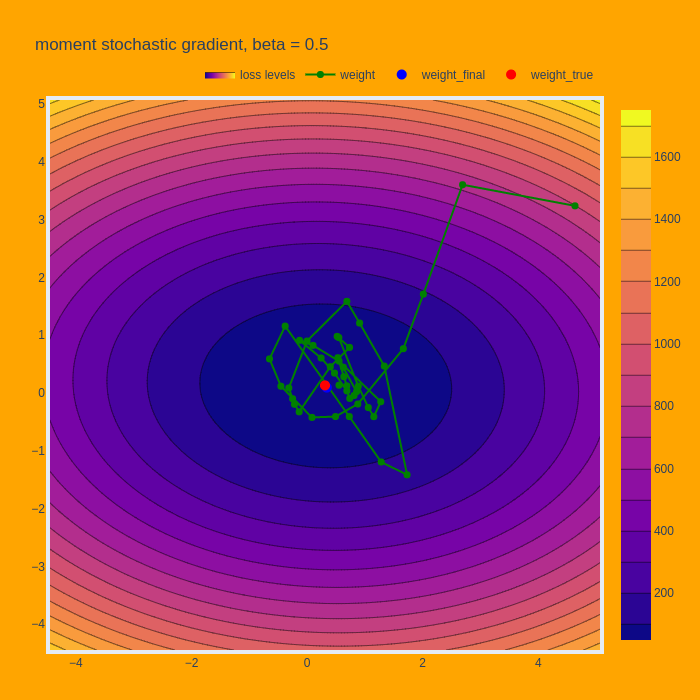
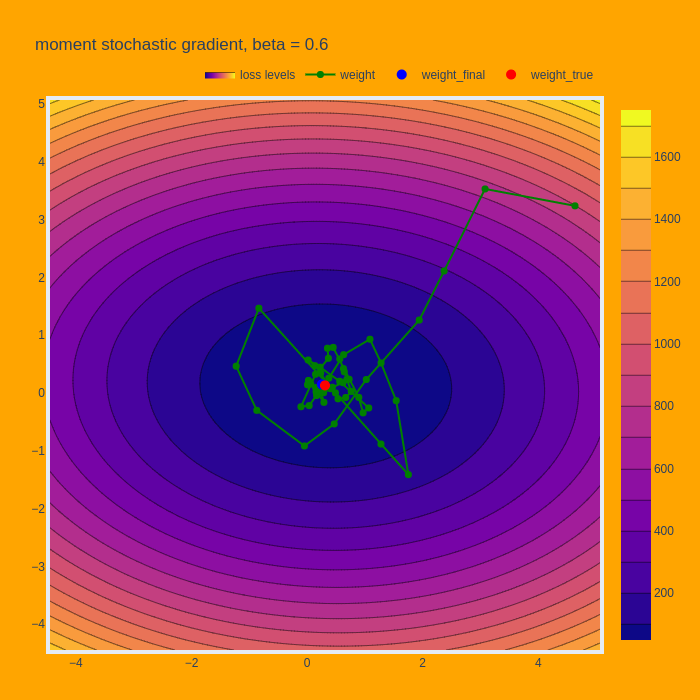
update

diff --git a/python_module/main.py b/python_module/main.py
@@ -166,8 +166,8 @@ if __name__ == '__main__':
 
     simple_gradient(X=XX, Y=YY, batch_size=len(XX), alpha=0.01, w_0=init_w, true_w=WW,
                     name="simple gradient, batch_size = all")
-    simple_gradient(X=XX, Y=YY, batch_size=16, alpha=0.01, w_0=init_w, true_w=WW,
-                    name="minibatch gradient, batch_size = 16")
+    simple_gradient(X=XX, Y=YY, batch_size=32, alpha=0.01, w_0=init_w, true_w=WW,
+                    name="minibatch gradient, batch_size = 32")
     simple_gradient(X=XX, Y=YY, batch_size=1, alpha=0.01, w_0=init_w, true_w=WW,
                     name="stochastic gradient, batch_size = 1")
 
@@ -176,21 +176,21 @@ if __name__ == '__main__':
 
     simple_gradient(X=XX_st, Y=YY, batch_size=len(XX), alpha=0.1, w_0=init_w, true_w=WW_st,
                     name="norm simple gradient, batch_size = all")
-    simple_gradient(X=XX_st, Y=YY, batch_size=16, alpha=0.1, w_0=init_w, true_w=WW_st,
-                    name="norm minibatch gradient, batch_size = 16")
+    simple_gradient(X=XX_st, Y=YY, batch_size=32, alpha=0.1, w_0=init_w, true_w=WW_st,
+                    name="norm minibatch gradient, batch_size = 32")
     simple_gradient(X=XX_st, Y=YY, batch_size=1, alpha=0.1, w_0=init_w, true_w=WW_st,
                     name="norm stochastic gradient, batch_size = 1")
 
     moment_gradient(X=XX, Y=YY, batch_size=1, alpha=0.01, w_0=init_w, true_w=WW,
-                    name="moment stochastic gradient, beta = 0.3", beta=0.3)
+                    name="moment stochastic gradient, beta = 0.2", beta=0.2)
     moment_gradient(X=XX, Y=YY, batch_size=1, alpha=0.01, w_0=init_w, true_w=WW,
-                    name="moment stochastic gradient, beta = 0.5", beta=0.5)
+                    name="moment stochastic gradient, beta = 0.6", beta=0.6)
     moment_gradient(X=XX, Y=YY, batch_size=1, alpha=0.01, w_0=init_w, true_w=WW,
                     name="moment stochastic gradient, beta = 0.8", beta=0.8)
 
     nesterov_gradient(X=XX, Y=YY, batch_size=1, alpha=0.01, w_0=init_w, true_w=WW,
-                      name="nesterov stochastic gradient, beta = 0.3", beta=0.3)
+                      name="nesterov stochastic gradient, beta = 0.2", beta=0.2)
     nesterov_gradient(X=XX, Y=YY, batch_size=1, alpha=0.01, w_0=init_w, true_w=WW,
-                      name="nesterov stochastic gradient, beta = 0.5", beta=0.5)
+                      name="nesterov stochastic gradient, beta = 0.6", beta=0.6)
     nesterov_gradient(X=XX, Y=YY, batch_size=1, alpha=0.01, w_0=init_w, true_w=WW,
                       name="nesterov stochastic gradient, beta = 0.8", beta=0.8)

diff --git a/README.md b/README.md
@@ -12,48 +12,3 @@
 ![image.png](https://github.com/grifguitar/metopt/blob/main/img/newplot9.png?raw=true)
 ![image.png](https://github.com/grifguitar/metopt/blob/main/img/newplot10.png?raw=true)
 ![image.png](https://github.com/grifguitar/metopt/blob/main/img/newplot11.png?raw=true)
-
-! simple gradient, batch_size = all:
-Total time: 0.23255299999999998 milliseconds Total iter: 8 iterations Average time per iteration: 0.029069124999999998
-milliseconds / iter
-
-! minibatch gradient, batch_size = 16:
-Total time: 0.452017 milliseconds Total iter: 8 iterations Average time per iteration: 0.056502125 milliseconds / iter
-
-! stochastic gradient, batch_size = 1:
-Total time: 2.7630559999999997 milliseconds Total iter: 65 iterations Average time per iteration: 0.042508553846153846
-milliseconds / iter
-
-! norm simple gradient, batch_size = all:
-Total time: 1.0764829999999999 milliseconds Total iter: 16 iterations Average time per iteration: 0.06728018749999999
-milliseconds / iter
-
-! norm minibatch gradient, batch_size = 16:
-Total time: 0.570375 milliseconds Total iter: 15 iterations Average time per iteration: 0.038024999999999996
-milliseconds / iter
-
-! norm stochastic gradient, batch_size = 1:
-Total time: 4.250802999999999 milliseconds Total iter: 93 iterations Average time per iteration: 0.04570755913978495
-milliseconds / iter
-
-! moment stochastic gradient, beta = 0.3:
-Total time: 0.77069 milliseconds Total iter: 16 iterations Average time per iteration: 0.048168125 milliseconds / iter
-
-! moment stochastic gradient, beta = 0.5:
-Total time: 2.8243549999999997 milliseconds Total iter: 43 iterations Average time per iteration: 0.06568267441860465
-milliseconds / iter
-
-! moment stochastic gradient, beta = 0.8:
-Total time: 0.655034 milliseconds Total iter: 15 iterations Average time per iteration: 0.04366893333333333 milliseconds
-/ iter
-
-! nesterov stochastic gradient, beta = 0.3:
-Total time: 0.905532 milliseconds Total iter: 16 iterations Average time per iteration: 0.05659575 milliseconds / iter
-
-! nesterov stochastic gradient, beta = 0.5:
-Total time: 3.9669779999999997 milliseconds Total iter: 76 iterations Average time per iteration: 0.05219707894736842
-milliseconds / iter
-
-! nesterov stochastic gradient, beta = 0.8:
-Total time: 0.629154 milliseconds Total iter: 19 iterations Average time per iteration: 0.033113368421052634
-milliseconds / iter
